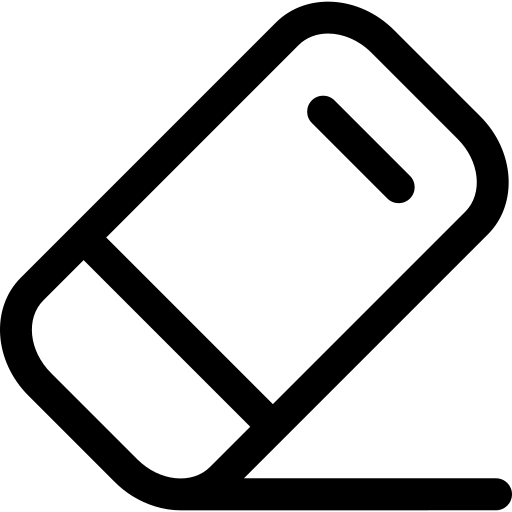
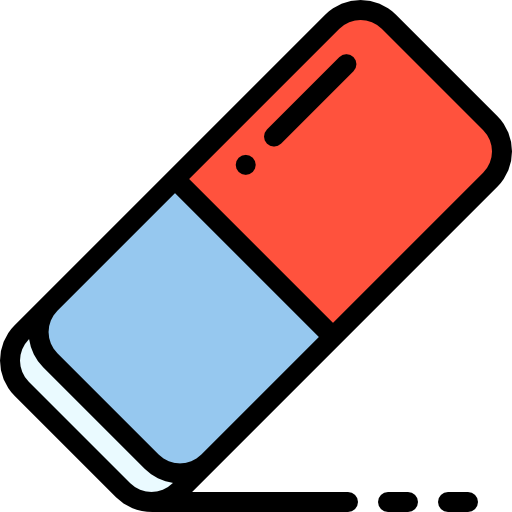
add(style.css) features section with colors and eraser

diff --git a/style.css b/style.css
@@ -4,7 +4,7 @@
 
 .grid{
     border:2px black solid;
-    margin:auto;
+    /* margin:auto; */
     width: 700px;
     height: 700px;
     display: flex;
@@ -38,3 +38,80 @@
     padding: 16px 62px;
 }
 
+.wrapper{
+    display: flex;
+    justify-content: center;
+    
+    align-items: center;
+  
+}
+
+
+.features{
+    align-self: stretch;
+
+    border:2px black solid;
+    background-color: grey;
+    padding: 20px 15px;
+    display: flex;
+    flex-direction: column;
+    /* justify-content: center; */
+    gap:14px;
+}
+
+.eraser{
+    margin-top:25vh;
+}
+.eraser img{
+    margin:0px 50px;
+}
+
+.colors{
+    
+    display: flex;
+    flex-direction:column;
+
+}
+
+.row-color{
+    display: flex;
+}
+#red,#green,#blue,#purple,#yellow,#orange,#pink,#black,#grey{
+    padding: 12px 12px;
+    width: 50px;
+    height: 50px;
+    background-color: blue;
+    border: 2px solid black ;
+}
+
+#red{
+    background-color: red;
+}
+#green{
+    background-color: green;
+}
+
+#blue{
+    background-color: blue;
+}
+
+#purple{
+    background-color: purple;
+}
+#yellow{
+    background-color: yellow;
+}
+#orange{
+    background-color: orange;
+}
+
+
+#pink{
+    background-color: pink;
+}
+#grey{
+    background-color: grey;
+}
+#black{
+    background-color: black;
+}

diff --git a/index.html b/index.html
@@ -15,9 +15,21 @@
                 <img src="img/eraser.png" width="50px">
             </div>
             <div class="colors">
-                <div id="red"></div>
-                <div id="green"></div>
-                <div id="blue"></div>
+                <div class="row-color">
+                    <div id="red"></div>
+                    <div id="green"></div>
+                    <div id="blue"></div>
+                </div>
+                <div class="row-color">
+                    <div id="purple"></div>
+                    <div id="yellow"></div>
+                    <div id="orange"></div>
+                </div>
+                <div class="row-color">
+                    <div id="pink"></div>
+                    <div id="grey"></div>
+                    <div id="black"></div>
+                </div>
             </div>
         </div>
     </div>
